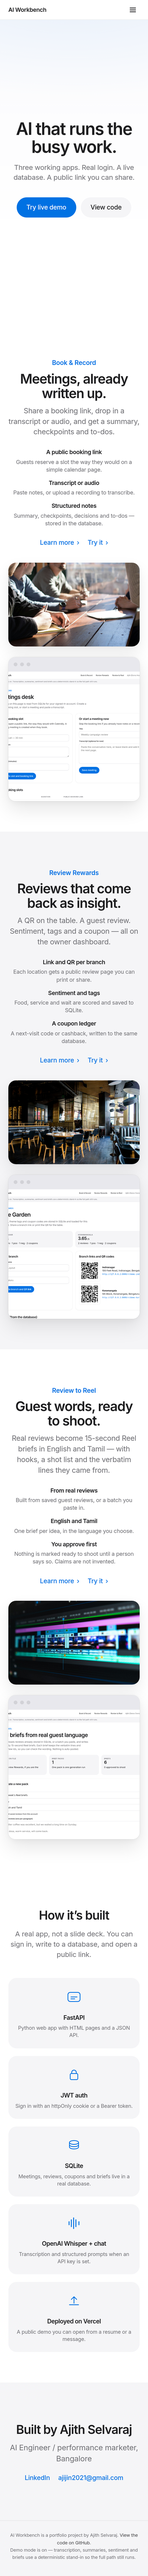
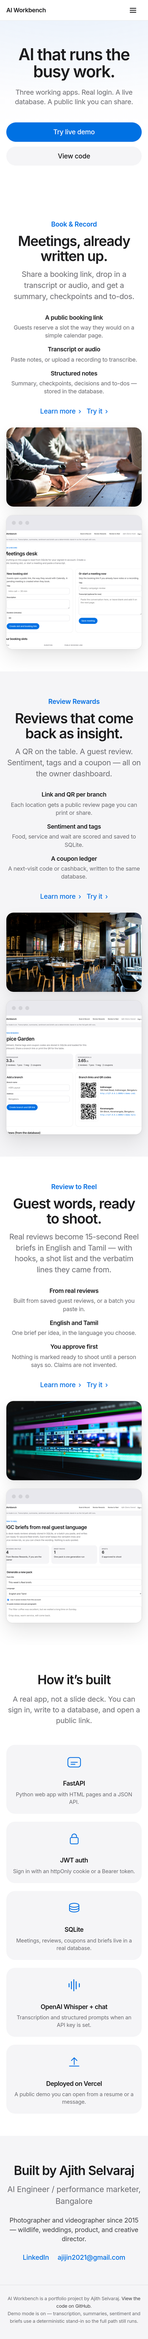
Make the landing and app pages fully mobile friendly.
Stack the layout, enlarge tap targets, and turn dashboard tables into
cards on small screens. Add a short creative-background line to the
Built by section.

Changed region(s): [[0.0308, 0.0, 0.9846, 0.7154], [0.0923, 0.7154, 0.9231, 0.9953]]

diff --git a/app/static/style.css b/app/static/style.css
@@ -127,8 +127,8 @@ nav.links .meta { font-size: 0.75rem; color: var(--muted); margin-left: 8px; }
 
 .nav-toggle {
   display: none;
-  width: 36px;
-  height: 36px;
+  width: 44px;
+  height: 44px;
   border: 0;
   background: transparent;
   cursor: pointer;
@@ -631,4 +631,124 @@ footer.landing-foot a { color: var(--ink-soft); }
   html { scroll-behavior: auto; }
   .reveal { opacity: 1; transform: none; transition: none; }
   .pill:hover { transform: none; }
+}
+
+
+/* ---------- Mobile-friendly refinements (375–414px and up) ---------- */
+html { overflow-x: clip; }
+body { overflow-x: clip; }
+img, svg, video, canvas { max-width: 100%; height: auto; }
+.mono, a.mono, td a, td .mono {
+  overflow-wrap: anywhere;
+  word-break: break-word;
+}
+
+.btn, button.btn, input[type=submit].btn, .pill, .nav-cta, a.nav-cta {
+  min-height: 44px;
+}
+input[type=text], input[type=email], input[type=password], input[type=number],
+input[type=file], textarea, select {
+  min-height: 44px;
+  max-width: 100%;
+}
+textarea { min-height: 140px; }
+.table-wrap {
+  overflow-x: auto;
+  -webkit-overflow-scrolling: touch;
+  max-width: 100%;
+}
+
+.author .creative {
+  font-size: 1.02rem;
+  color: var(--ink-soft);
+  max-width: 28em;
+  margin: 0 auto 22px;
+  line-height: 1.45;
+}
+
+@media (max-width: 820px) {
+  .lnav-links a, header.site nav.links a, header.site nav.links button.linkish {
+    min-height: 44px;
+    display: flex;
+    align-items: center;
+    font-size: 1.05rem;
+    padding: 12px 12px;
+  }
+  .nav-cta, a.nav-cta {
+    min-height: 44px;
+    display: flex;
+    align-items: center;
+    justify-content: center;
+  }
+}
+
+@media (max-width: 700px) {
+  .wrap, .wrap-narrow, header.site .bar, .lnav .bar {
+    padding-left: 16px;
+    padding-right: 16px;
+  }
+  body.app main.wrap.page { padding: 24px 16px 72px; }
+  .lhero {
+    min-height: auto;
+    padding: 64px 16px 72px;
+  }
+  .lhero h1 { font-size: clamp(2.15rem, 11vw, 3rem); }
+  .lhero .sub { font-size: 1.08rem; padding: 0 4px; }
+  .actions { justify-content: center; width: 100%; }
+  .pill { min-height: 44px; width: auto; padding: 12px 22px; }
+  .tile { padding: 64px 16px 56px; }
+  .tile-copy { margin-bottom: 28px; }
+  .atmosphere { height: 200px; border-radius: 18px; margin-bottom: 22px; }
+  .device { border-radius: 16px; }
+  .device-screen { height: 300px; }
+  .built, .author { padding: 64px 16px 56px; }
+  .built-item { padding: 22px 14px 20px; }
+  footer.landing-foot { padding: 24px 16px 36px; }
+  .page h1, body.app .page h1 { font-size: 1.7rem; word-wrap: break-word; }
+  .card { padding: 18px; border-radius: 18px; }
+  form .btn, .card .btn { min-height: 44px; }
+  /* Long booking / review URLs */
+  table { font-size: 0.88rem; }
+  th, td { padding: 10px 8px; }
+  header.site, .lnav { width: 100%; }
+  .banner .wrap { padding-left: 16px; padding-right: 16px; }
+}
+
+@media (max-width: 420px) {
+  .lhero .actions { flex-direction: column; align-items: stretch; }
+  .lhero .pill { width: 100%; }
+  .tile-links { flex-wrap: wrap; gap: 14px; }
+  .stat .n { font-size: 1.55rem; }
+}
+
+
+@media (max-width: 700px) {
+  .table-wrap table, .table-wrap thead, .table-wrap tbody, .table-wrap th, .table-wrap td, .table-wrap tr {
+    display: block;
+    width: 100%;
+  }
+  .table-wrap thead { position: absolute; width: 1px; height: 1px; overflow: hidden; clip: rect(0 0 0 0); }
+  .table-wrap tr {
+    background: var(--paper);
+    border: 1px solid var(--line);
+    border-radius: 16px;
+    padding: 12px 14px;
+    margin: 0 0 10px;
+  }
+  .table-wrap tr:hover td { background: transparent; }
+  .table-wrap td, .table-wrap th {
+    border: 0;
+    padding: 5px 0 5px 0;
+    text-align: left;
+  }
+  .table-wrap td[data-label]::before {
+    content: attr(data-label);
+    display: block;
+    font-size: 0.68rem;
+    font-weight: 600;
+    letter-spacing: 0.06em;
+    text-transform: uppercase;
+    color: var(--muted);
+    margin-bottom: 2px;
+  }
 }

diff --git a/app/templates/base.html b/app/templates/base.html
@@ -51,6 +51,17 @@
           btn.setAttribute("aria-expanded", open ? "true" : "false");
         });
       }
+
+      document.querySelectorAll(".table-wrap table").forEach(function (table) {
+        var headers = Array.prototype.map.call(table.querySelectorAll("thead th"), function (th) {
+          return (th.textContent || "").trim();
+        });
+        table.querySelectorAll("tbody tr").forEach(function (tr) {
+          Array.prototype.forEach.call(tr.children, function (td, i) {
+            if (headers[i]) td.setAttribute("data-label", headers[i]);
+          });
+        });
+      });
     })();
   </script>
 </body>

diff --git a/app/templates/index.html b/app/templates/index.html
@@ -165,6 +165,7 @@
     <section class="author" id="built-by">
       <h2 class="reveal">Built by Ajith Selvaraj</h2>
       <p class="role reveal">AI Engineer / performance marketer, Bangalore</p>
+      <p class="creative reveal">Photographer and videographer since 2015 — wildlife, weddings, product, and creative director.</p>
       <div class="author-links reveal">
         <a href="https://www.linkedin.com/in/ajith-selvaraj-34450a253" target="_blank" rel="noopener">LinkedIn</a>
         <a href="mailto:ajijin2021@gmail.com">ajijin2021@gmail.com</a>
